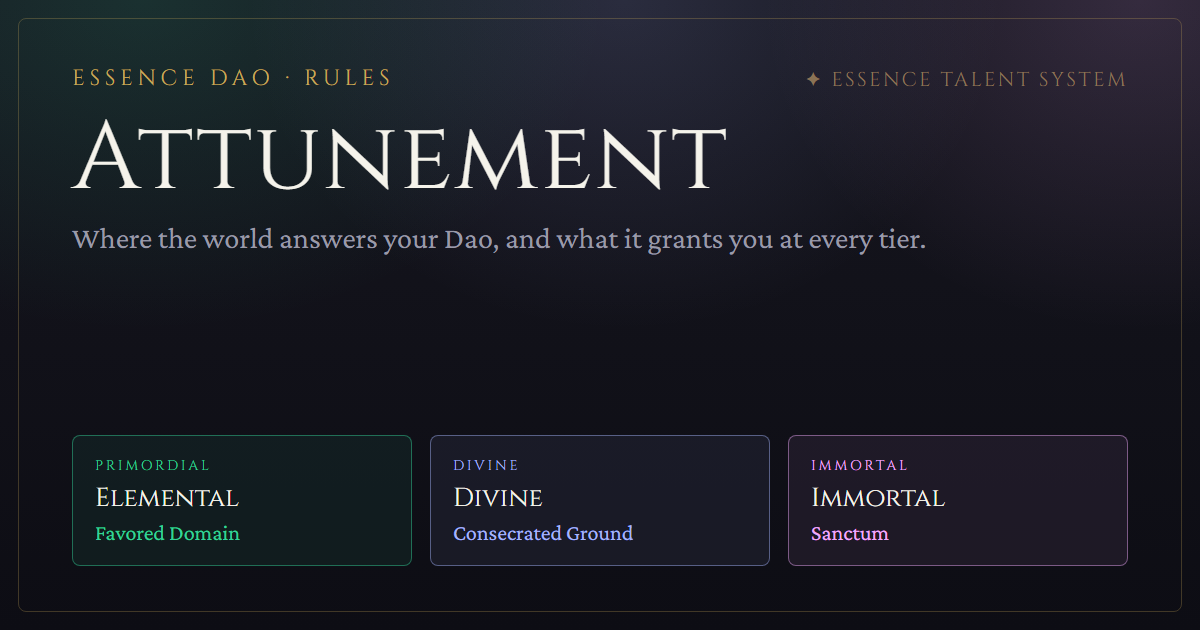
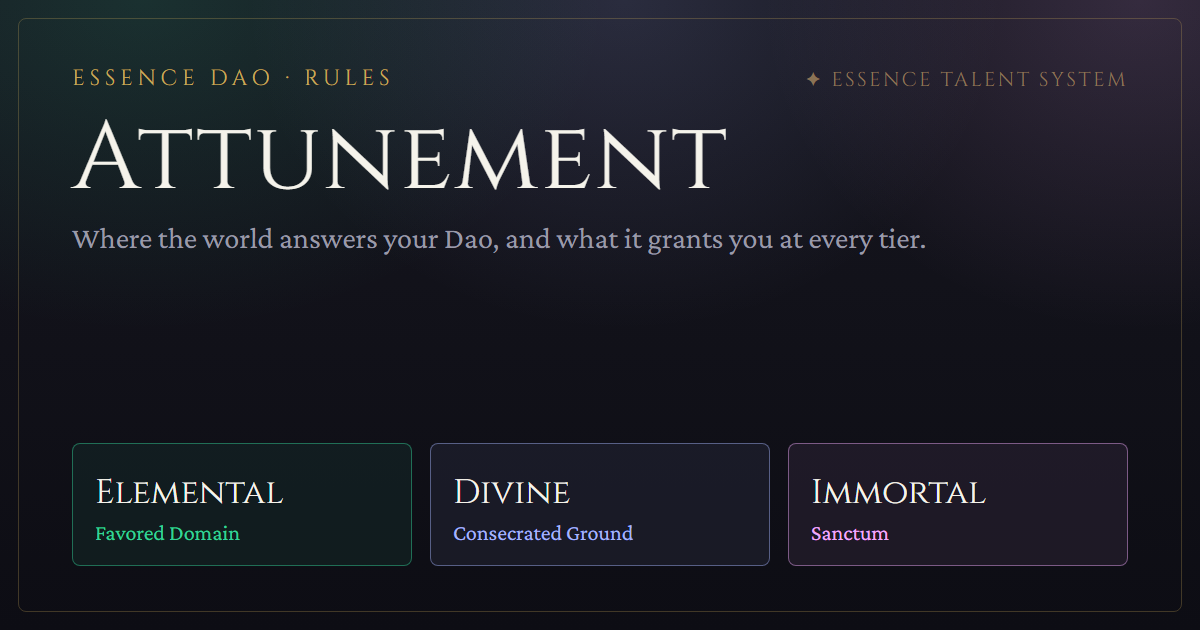
fix(rules): label Attunements by domain instead of repeating the family
The tabs, patch notes cards and preview image read "Divine / Divine
Attunement"; they now pair each Attunement with its domain.

Changed region(s): [[0.0617, 0.7238, 0.2467, 0.8143], [0.6783, 0.7238, 0.8325, 0.8143], [0.37, 0.7238, 0.4933, 0.8143]]

diff --git a/src/pages/RulesPage.tsx b/src/pages/RulesPage.tsx
@@ -52,8 +52,8 @@ const RulesPage: React.FC = () => {
                 className="rounded-lg border px-3 py-2.5 text-left transition-colors"
                 style={{ borderColor: tint(g.accent, selected ? 0.6 : 0.2), background: tint(g.accent, selected ? 0.12 : 0.03) }}
               >
-                <p className="font-display text-[10px] tracking-[0.2em] uppercase" style={{ color: g.accent }}>{g.label}</p>
                 <p className={`font-display text-sm sm:text-base tracking-wide ${selected ? 'text-ivory' : 'text-fog'}`}>{a.name}</p>
+                <p className="font-display text-[10px] tracking-[0.2em] uppercase" style={{ color: g.accent }}>{a.domainLabel}</p>
               </button>
             );
           })}

diff --git a/src/pages/PatchNotesPage.tsx b/src/pages/PatchNotesPage.tsx
@@ -253,7 +253,6 @@ const PatchNotesPage: React.FC = () => {
                   const group = v2.groups.find(g => g.id === a.family)!;
                   return (
                     <Link key={a.id} to={`/rules#${a.id}`} className="arcane-panel p-4 block hover:brightness-125 transition" style={{ borderColor: tint(group.accent, 0.3) }}>
-                      <GroupLabel label={group.label} accent={group.accent} className="mb-1" />
                       <p className="font-display text-ivory tracking-wide">{a.name}</p>
                       <p className="text-sm mt-1"><span style={{ color: group.accent }}>{a.domainLabel}.</span> <span className="text-fog">{a.summary}</span></p>
                     </Link>
